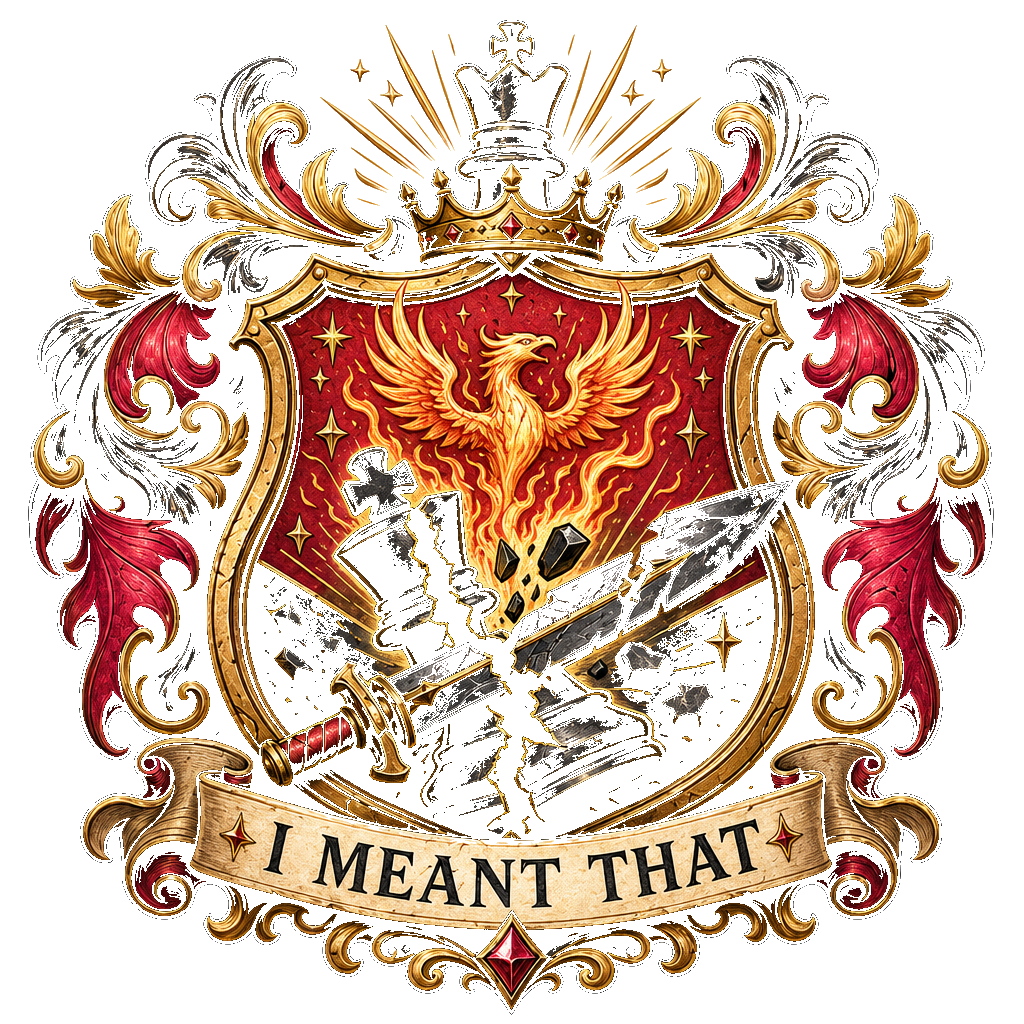
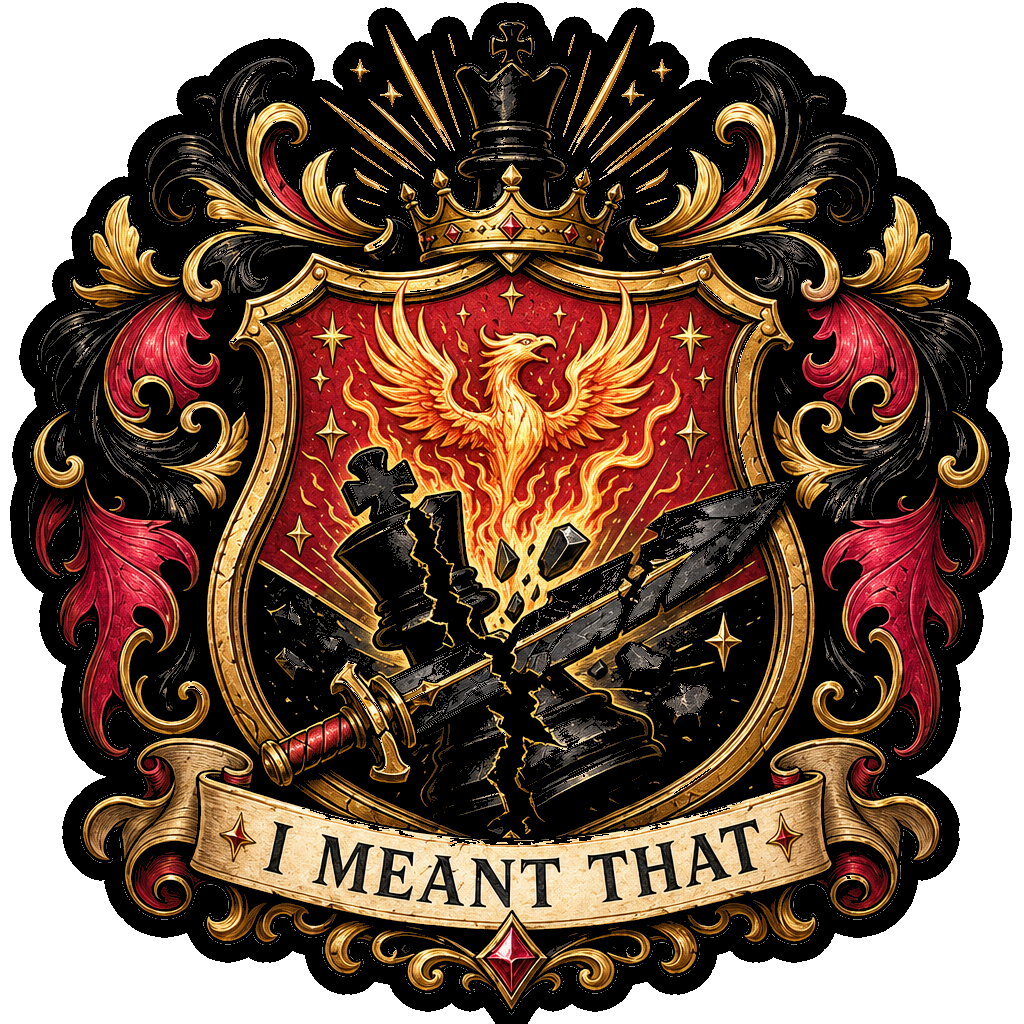
Fix badge image matte transparency

diff --git a/src/app/globals.css b/src/app/globals.css
@@ -79,21 +79,17 @@ p { color: var(--muted); line-height: 1.5; }
 .proof-line { padding: 10px 11px; border-radius: 16px; background: rgba(96,240,175,.1); color: var(--green); font-size: 12px; font-weight: 900; }
 .challenge-badge-token { --badge-primary: var(--pink); --badge-secondary: var(--gold); --badge-glow: rgba(255,95,159,.42); position: relative; isolation: isolate; display: inline-grid; grid-template-columns: auto minmax(0, 1fr); align-items: center; gap: 12px; width: min(100%, 300px); padding: 10px 12px; border: 1px solid color-mix(in srgb, var(--badge-secondary) 34%, rgba(255,255,255,.16)); border-radius: 24px; background: linear-gradient(135deg, color-mix(in srgb, var(--badge-primary) 18%, transparent), rgba(255,255,255,.06)); box-shadow: 0 18px 34px var(--badge-glow); overflow: hidden; }
 .challenge-badge-token::before { content: ""; position: absolute; inset: -45% auto auto 36%; width: 150px; height: 150px; border-radius: 999px; background: radial-gradient(circle, color-mix(in srgb, var(--badge-secondary) 52%, transparent), transparent 68%); z-index: -1; }
-.challenge-badge-token.illustrated { width: 100%; padding: 0; border: 0; border-radius: 0; background: transparent; box-shadow: none; overflow: visible; }
-.challenge-badge-token.illustrated::before { display: none; }
 .challenge-badge-token.earned { outline: 2px solid color-mix(in srgb, var(--badge-secondary) 64%, transparent); }
-.challenge-badge-token.illustrated.earned { outline: 0; }
 .challenge-badge-token.hero { grid-template-columns: 1fr; justify-items: center; text-align: center; width: min(100%, 330px); padding: 18px; border-radius: 32px; }
-.challenge-badge-token.illustrated.hero { padding: 0; }
 .badge-heraldry { display: grid; justify-items: center; gap: 0; }
 .badge-crest { width: 24px; height: 18px; display: grid; place-items: center; color: var(--badge-secondary); filter: drop-shadow(0 3px 8px var(--badge-glow)); font-size: 15px; line-height: 1; }
 .badge-shield { width: 56px; height: 66px; display: grid; place-items: center; clip-path: polygon(10% 0, 90% 0, 90% 56%, 50% 100%, 10% 56%); background: linear-gradient(135deg, var(--badge-primary) 0 48%, #151019 48% 52%, var(--badge-secondary) 52% 100%); box-shadow: inset 0 0 0 3px rgba(255,255,255,.25), inset 0 -14px 24px rgba(0,0,0,.24), 0 12px 24px var(--badge-glow); }
 .badge-token-motif { width: 38px; height: 38px; display: grid; place-items: center; border-radius: 999px; color: #120d12; background: radial-gradient(circle at 35% 20%, #fff5c8, var(--badge-secondary) 55%, var(--badge-primary)); font-size: 23px; font-weight: 950; box-shadow: inset 0 0 0 2px rgba(255,255,255,.32); }
-.badge-reference-art { width: 86px; height: 86px; object-fit: contain; filter: drop-shadow(0 12px 18px var(--badge-glow)); }
+.badge-reference-art { width: 72px; height: 72px; object-fit: contain; filter: drop-shadow(0 12px 18px var(--badge-glow)); }
 .badge-ribbon { max-width: 104px; margin-top: -3px; padding: 3px 8px; border-radius: 999px; background: rgba(12,8,13,.86); color: var(--badge-secondary); border: 1px solid color-mix(in srgb, var(--badge-secondary) 45%, transparent); font-size: 8px; font-weight: 950; letter-spacing: .06em; text-transform: uppercase; white-space: nowrap; overflow: hidden; text-overflow: ellipsis; }
 .challenge-badge-token.hero .badge-shield { width: 132px; height: 154px; }
 .challenge-badge-token.hero .badge-token-motif { width: 88px; height: 88px; font-size: 54px; }
-.challenge-badge-token.hero .badge-reference-art { width: min(240px, 70vw); height: auto; max-height: 240px; }
+.challenge-badge-token.hero .badge-reference-art { width: min(220px, 70vw); height: auto; max-height: 220px; }
 .challenge-badge-token.hero .badge-ribbon { max-width: 210px; font-size: 10px; padding: 5px 12px; }
 .challenge-badge-token.hero .badge-crest { width: 38px; height: 28px; font-size: 24px; }
 .badge-token-copy { display: grid; gap: 3px; min-width: 0; }

diff --git a/src/components/challenge-badge.tsx b/src/components/challenge-badge.tsx
@@ -11,8 +11,7 @@ type ChallengeBadgeProps = {
 export default function ChallengeBadge({ challenge, size = "compact", earned = false }: ChallengeBadgeProps) {
   const identity = challenge.badgeIdentity;
   const heraldry = identity.heraldry;
-  const hasIllustratedArt = Boolean(identity.image);
-  const className = ["challenge-badge-token", hasIllustratedArt ? "illustrated" : "", size === "hero" ? "hero" : "", earned ? "earned" : ""]
+  const className = ["challenge-badge-token", size === "hero" ? "hero" : "", earned ? "earned" : ""]
     .filter(Boolean)
     .join(" ");
 
@@ -45,7 +44,7 @@ export default function ChallengeBadge({ challenge, size = "compact", earned = f
             </span>
           </>
         )}
-        {hasIllustratedArt ? null : <span className="badge-ribbon">{heraldry.motto}</span>}
+        <span className="badge-ribbon">{heraldry.motto}</span>
       </span>
       <span className="badge-token-copy">
         <strong>{identity.name}</strong>

diff --git a/docs/SQC_ILLUSTRATED_BADGE_SET_LIVE_DEPLOY_2026-04-27.md b/docs/SQC_ILLUSTRATED_BADGE_SET_LIVE_DEPLOY_2026-04-27.md
@@ -96,3 +96,7 @@ Andreas clarified that transparency should exist only outside the crest, not ins
 Andreas showed the live `/challenges` page still reading as non-transparent because the transparent crest assets were being placed inside `ChallengeBadge`'s glowing rounded token wrapper. I changed illustrated badge rendering to add an `illustrated` class, remove the synthetic ribbon/rounded card/background/border/shadow wrapper for image-backed badges, and let the crest art float directly inside the challenge card. `pnpm lint`/`pnpm build` and deploy proof pending.
 
 Production deploy completed: `https://cc-mq6gsf2ze-andreas-nordenadlers-projects.vercel.app`, aliased to `https://sidequestchess.com`. Production smoke confirmed `/challenges` and `/badges` include `challenge-badge-token illustrated` and `/badges/v2/` references, representative badge PNG served 200, and Vercel 500/501/502/503/504 scan returned no logs.
+
+## 13:50 correct badge-image-only transparency repair
+
+Andreas clarified that the intended transparency is only the square/canvas behind each small illustrated badge image (for example the black square behind King Walk Club), while the badge panel/card UI and all badge artwork/text should remain otherwise unchanged. I reverted the overcorrected floating badge presentation, restored the normal token wrapper and ribbon, then regenerated the v2 badge masks using a dilated foreground barrier so the hard square canvas outside the crest image is transparent while central shield/banner/artwork stays opaque. Magenta-background QA on no-castle, blunder-gambit, and queenless now shows no hard rectangular image backgrounds and no obvious central-art holes; only ornamental perimeter cutouts remain transparent. `pnpm lint`/`pnpm build` and production deploy pending.
